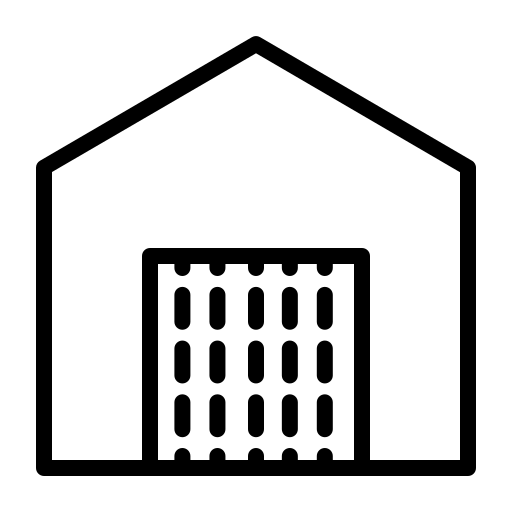
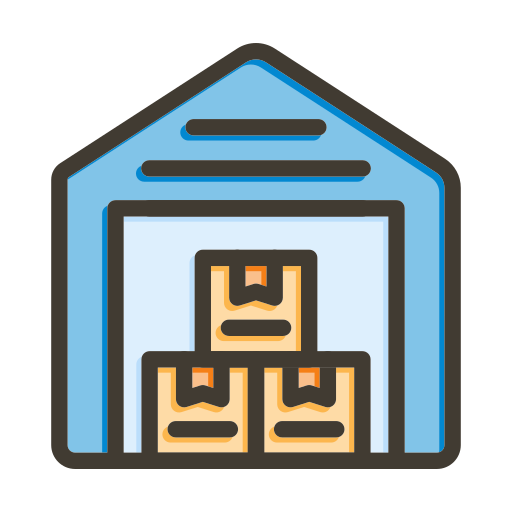
profile link edit

diff --git a/frontend/src/components/Header.jsx b/frontend/src/components/Header.jsx
@@ -36,14 +36,14 @@ const Header = () => {
               <LinkContainer to="/profile">
                 <Nav.Link>
                   <Dropdown className="d-flex custom-dropdown">
-                    <div className=" d-flex align-items-center text-white">
-                      <Dropdown.Toggle variant="link text-white">
-                        <FaUser className="me-1 " size={21} />
+                    <div className=" d-flex text-white">
+                      <Dropdown.Toggle variant="border-0 shadow-none text-white d-flex py-0">
+                        <FaUser className="me-2 mt-2" size={21} />
+                        <div className="d-flex flex-column align-items-start">
+                          Dechen Namgyal
+                          <div className="">Admin</div>
+                        </div>
                       </Dropdown.Toggle>
-                      <div>
-                        Dechen Namgyal
-                        <div>Admin</div>
-                      </div>
                     </div>
                     <div>
                       <Dropdown.Menu className="border-0">

diff --git a/frontend/src/routes.jsx b/frontend/src/routes.jsx
@@ -130,12 +130,12 @@ export const router = createBrowserRouter(
 export const AppRoutes = () => {
   const auth = useAuth();
 
-//   const navigate = useNavigate();
+  //   const navigate = useNavigate();
 
   const handleSignOut = async () => {
     try {
       await auth.signoutRedirect();
-      auth.signinRedirect()
+      auth.signinRedirect();
     } catch (error) {
       console.error("Error during sign out:", error);
     }
@@ -164,8 +164,6 @@ export const AppRoutes = () => {
         <button onClick={() => void auth.signinRedirect()}>Log In</button>
       </div>
     );
-  } else {
-    return <button onClick={handleSignOut}>Log Out</button>;
   }
   return <RouterProvider router={router} />;
 };

diff --git a/frontend/index.html b/frontend/index.html
@@ -1,7 +1,12 @@
 <!DOCTYPE html>
 <html lang="en">
   <head>
-    <link rel="icon" type="x-icon" href="./src/assets/warehouse (1).png" />
+    <link
+      rel="icon"
+      type="x-icon"
+      href="./src/assets/warehouse.png"
+      class="warehouse-icon"
+    />
     <meta charset="UTF-8" />
     <meta name="viewport" content="width=device-width, initial-scale=1.0" />
     <title>Inventory</title>
